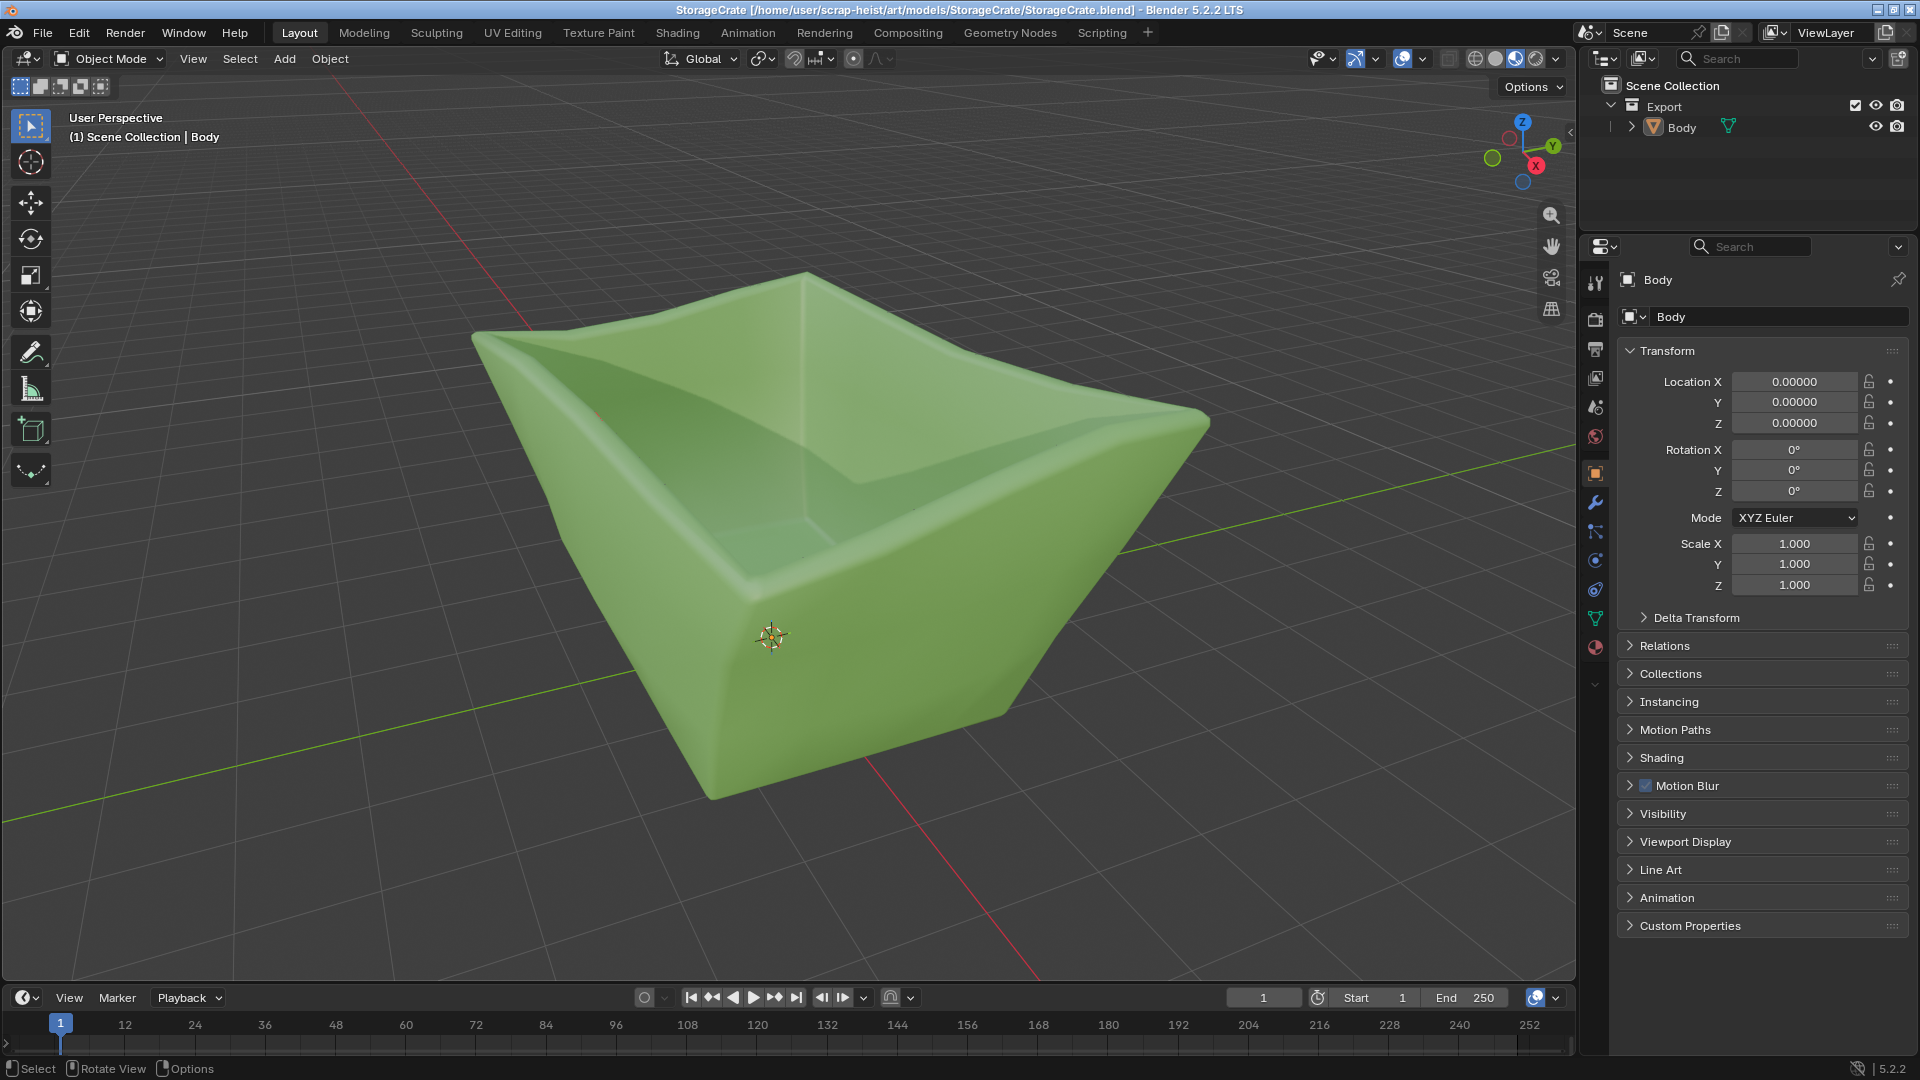
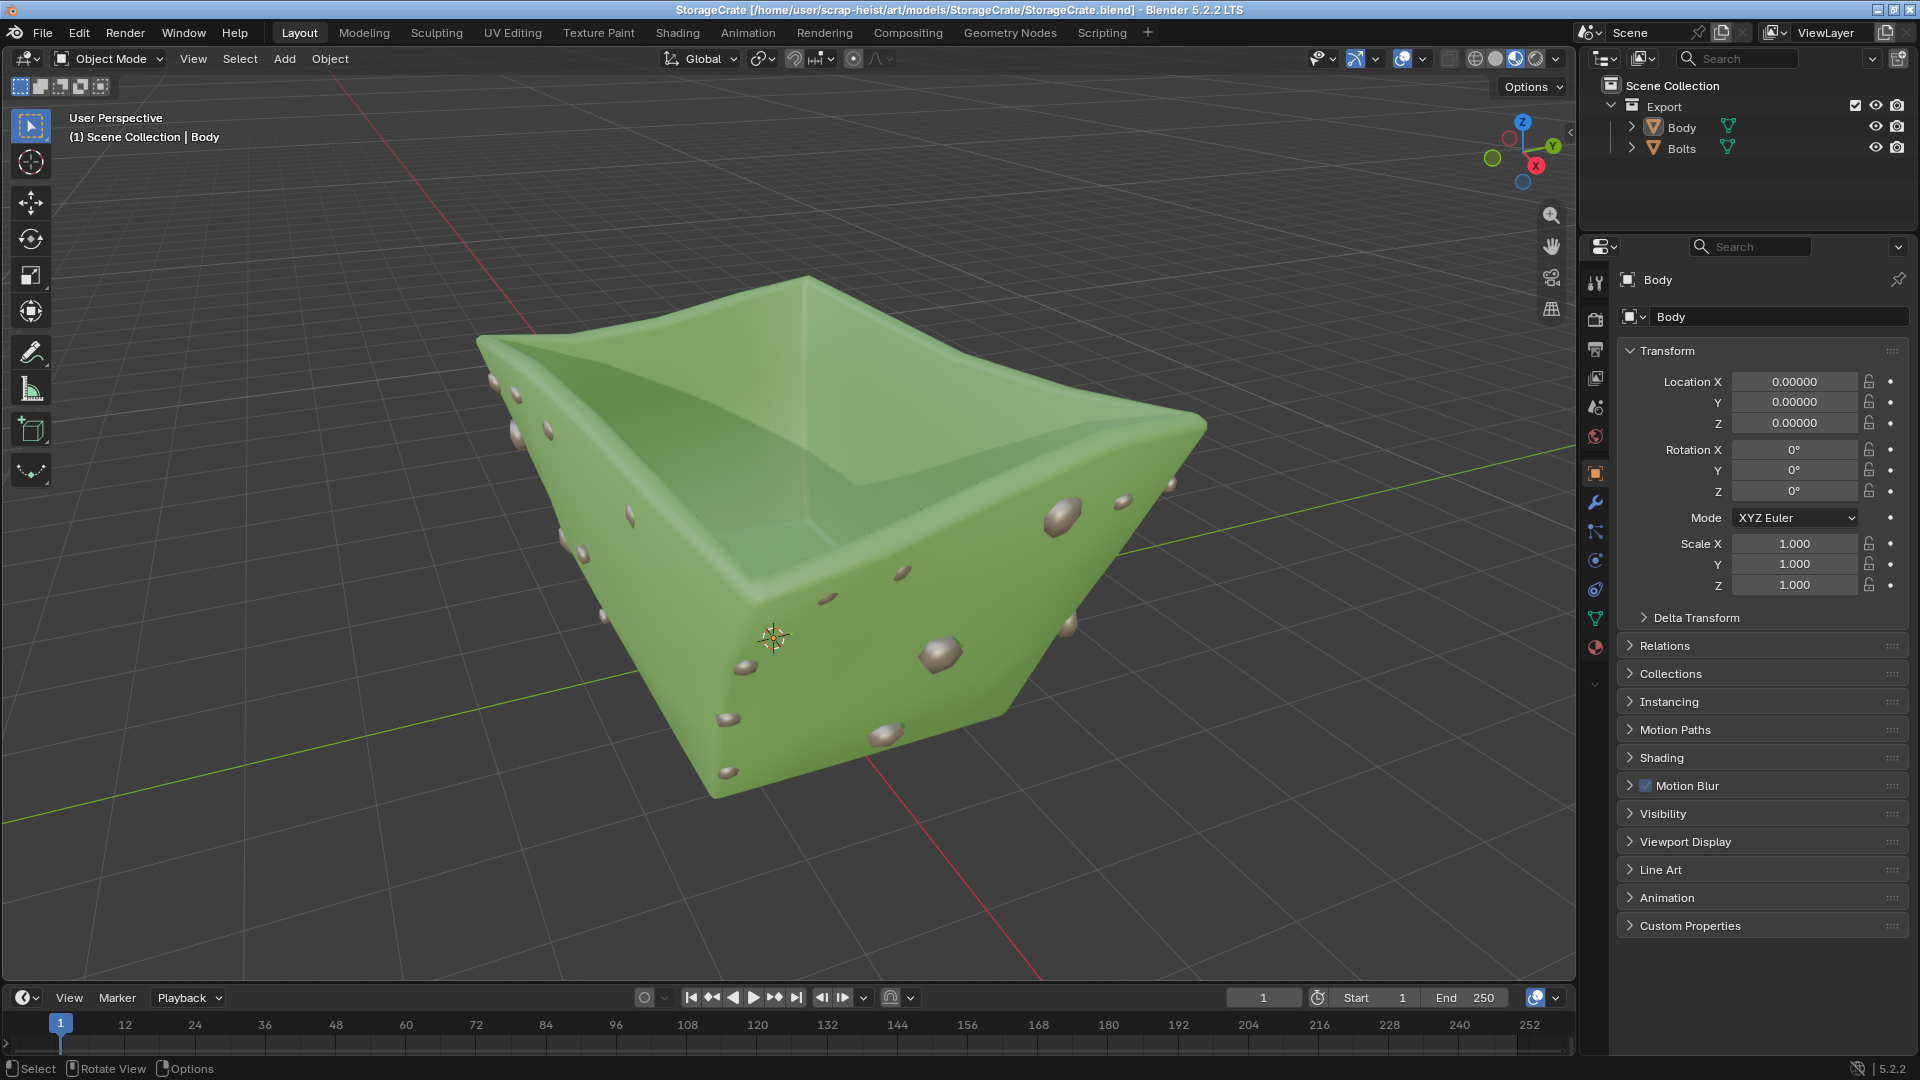
phase 4: StorageCrate - wacky bolts around panel edges

diff --git a/art/models/StorageCrate/build.py b/art/models/StorageCrate/build.py
@@ -1,8 +1,10 @@
 import math
+import random
 
 import bmesh
 import bpy
 import scrapkit
+from mathutils import Matrix, Vector
 
 # Storage crate: the yard's open-top bin, cartoony. The body flares wider at
 # the top, leans and twists as it rises, its walls bulge out like an
@@ -26,6 +28,10 @@ ROWS = 3
 
 # Bright cartoon green, in sRGB.
 BODY = (0.44, 0.68, 0.35)
+
+# Bolt heads: radius and a warm gunmetal, in sRGB.
+BOLT_SIZE = 0.11
+BOLT = (0.62, 0.58, 0.52)
 
 
 def linear(color):
@@ -89,9 +95,59 @@ def body() -> bpy.types.Object:
 	return obj
 
 
+def wall_frame(side: int, s: float, v: float):
+	# Position and outward normal of the outer wall surface at (s, v).
+	step = 0.01
+	point = Vector(ring_point(side, s, v))
+	along = Vector(ring_point(side, min(s + step, 1), v)) - Vector(ring_point(side, max(s - step, 0), v))
+	up = Vector(ring_point(side, s, min(v + step, 0.99))) - Vector(ring_point(side, s, max(v - step, 0)))
+	return point, along.cross(up).normalized()
+
+
+def bolt_spots():
+	# Bolts run up each corner seam, along the middle seam of each wall and
+	# under the lip. Spacing jitters, a few are missing and some are oversized.
+	rng = random.Random(7)
+	spots = []
+	for side in range(4):
+		lines = [(0.03, v) for v in (0.15, 0.4, 0.62, 0.85)]
+		lines += [(0.5, v) for v in (0.2, 0.5, 0.8)]
+		lines += [(s, 0.9) for s in (0.18, 0.34, 0.66, 0.82)]
+		for s, v in lines:
+			if rng.random() < 0.12:
+				continue
+			s = min(max(s + rng.uniform(-0.03, 0.03), 0.02), 0.98)
+			v += rng.uniform(-0.04, 0.04)
+			size = BOLT_SIZE * (1.8 if rng.random() < 0.15 else rng.uniform(0.8, 1.2))
+			spots.append((side, s, v, size, rng.uniform(-0.35, 0.35), rng.uniform(0, math.pi)))
+	return spots
+
+
+def bolts() -> bpy.types.Object:
+	# Squashed 6-sided domes, tilted at odd angles; one mesh for all of them.
+	mesh = bpy.data.meshes.new("Bolts")
+	bm = bmesh.new()
+	for side, s, v, size, tilt, spin in bolt_spots():
+		point, normal = wall_frame(side, s, v)
+		head = bmesh.ops.create_uvsphere(bm, u_segments=6, v_segments=3, radius=1.0)["verts"]
+		bmesh.ops.scale(bm, vec=(size, size, size * 0.55), verts=head)
+		bmesh.ops.rotate(bm, cent=(0, 0, 0), matrix=Matrix.Rotation(spin, 3, "Z") @ Matrix.Rotation(tilt, 3, "X"), verts=head)
+		bmesh.ops.rotate(bm, cent=(0, 0, 0), matrix=normal.to_track_quat("Z", "Y").to_matrix(), verts=head)
+		bmesh.ops.translate(bm, vec=point, verts=head)
+	bm.to_mesh(mesh)
+	bm.free()
+	for polygon in mesh.polygons:
+		polygon.use_smooth = True
+	obj = bpy.data.objects.new("Bolts", mesh)
+	bpy.context.scene.collection.objects.link(obj)
+	return obj
+
+
 collection = scrapkit.new_scene()
 green = scrapkit.material("Body", linear(BODY), roughness=0.55)
+steel = scrapkit.material("Bolt", linear(BOLT), metallic=0.6, roughness=0.45)
 
 scrapkit.link(body(), collection, green)
+scrapkit.link(bolts(), collection, steel)
 
 scrapkit.finish(collection)
